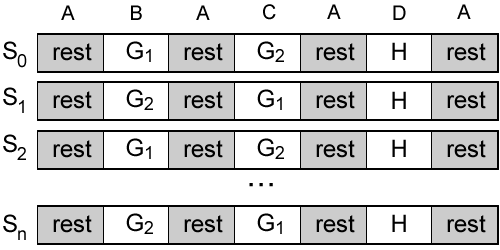
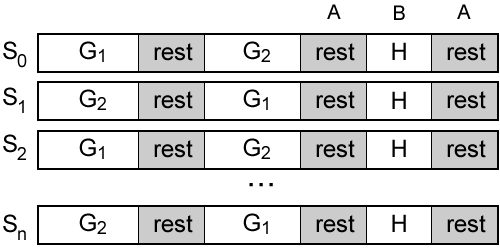
Update section regarding experiment 2

diff --git a/texts/closing.tex b/texts/closing.tex
@@ -35,7 +35,7 @@ Experiment involving emotion detection & & & & & & & & & & & & & \cellcolor{Gray
 \hline
 Development of software to validate the approach & & & & & & & & & & & & & & & & \cellcolor{Gray} & \cellcolor{Gray} & \cellcolor{Gray} & \cellcolor{Gray} & \cellcolor{Gray} & & \\
 \hline
-Thesis writing & & & & & & & & \cellcolor{Gray} & & & & \cellcolor{Gray} & & & \cellcolor{Gray} & \cellcolor{Gray} & \cellcolor{Gray} & \cellcolor{Gray} & \cellcolor{Gray} & \cellcolor{Gray} & & \\
+Thesis writing & & & & \cellcolor{Gray} & & & & \cellcolor{Gray} & & & & \cellcolor{Gray} & & & \cellcolor{Gray} & \cellcolor{Gray} & \cellcolor{Gray} & \cellcolor{Gray} & \cellcolor{Gray} & \cellcolor{Gray} & & \\
 \hline
 Disputation & & & & & & & & & & & & & & & & & & & & & & \cellcolor{Gray} \\
 \hline
@@ -135,9 +135,11 @@ Another possible solution is to provide the model with the variations of the sig
 \section{Experiment involving emotion detection}
 \label{closing:emotion-detection-experiment}
 
-An experiment involving emotion detection and games will be planned and executed to validate the proposed approach. The experiment will be similar to the first one conducted, however it will test the hypotesis that all defined components, i.e. computer vision technique, machine learning model and calibration games, work in combination to detect emotional states.
+After the previous tasks have been completed, the limitations of the remote readings will be known (and mitigated), the set of user signals to be used in the user-tailored model will be defined and a machine learning model to map user signals into emotional states will have been selected. In summary the proposed emotion detection process will be structuraly complete, but not validated. An experiment involving emotion detection and games will then be planned and executed to validate the proposed approach.
 
-The experiment design will be based on a within-subject approach \parencite{lane2015online} where all participants perform at all levels of the treatment and there are no control groups. In the context of this research, user signals, e.g. HR, facial actions and self-reported emotional state, will be measured and used in a user-tailored model, so the division of subjects into more than one group poses a comparison problem. Each individual will inevitably differ from one another regarding signals and emotions, such as variations in average HR during rest, for instance. Additionally the emotional state of users regarding boredom and stress must be measured constantly during the experiment, so the accuracy of the user-tailored model can be tested against those points where the emotional state is known. People present different perceptions regarding stress and boredem, so a division of subjects into groups also poses comparison problems.
+The experiment will be similar to the first one conducted, however it will test the hypotesis that all defined components, i.e. computer vision technique, machine learning model and calibration games, work in combination to detect emotional states. The overall idea of the experiment is to make subjects play three games (two calibration games, one off the shelf game) while being recored and monitored by a HR sensor, i.e. a watch. During the gameplay of the non-calibration, off the shelf game the emotional state of users will be constrantly measured. The experiment will produce data regarding variation of signals of subjects (from the calibration games) and ground truth data related to emotions during the gameplay of an ordinary game. The signals data will be used to train the machine learning model, which will be evaluated against the collected ground truth data. The next section contains further information regarding such validation process.
+
+The experiment design will be based on a within-subject approach \parencite{lane2015online} where all participants perform at all levels of the treatment and there are no control groups. In the context of this research, user signals, e.g. HR, facial actions and self-reported emotional state, will be measured and used in a user-tailored model, so the division of subjects into more than one group poses a problem. Each individual will inevitably differ from one another regarding signals and emotions, such as variations in average HR during rest, for instance. Additionally people present different perceptions regarding stress and boredem. Those inherent differences pose comparision problems, so a within-subject approach simplifies the analysis of data when compared to the process involving the division of subjects into different groups.
 
 \begin{figure}[ht]
     \centering
@@ -146,9 +148,9 @@ The experiment design will be based on a within-subject approach \parencite{lane
     \label{fig:time-series-design-breakwell}
 \end{figure}
 
-Since the emotional state of users must be measured constantly, a time-series experiment design will be used. In a time-series design there is a periodic measurement process on an individual and the introduction of an experimental change into this time series of measurements, which results in a discontinuity in the measurements recorded in the time series \parencite{campbell2015experimental}. Figure \ref{fig:time-series-design-breakwell} illustrates the design. The A-B-A design is a common single-case experimental design in which the measurements are conducted throughout the three parts of the experiment, i.e. A, B and A. Phase A, referred to as the baseline phase, is a period where the subject is not under the effect of the treatment, so the measurements should reflect natural occurences. Phase B, referred as the treatment phase, is the period where the treatment/intervention is applied. In the A-B-A design, the application of a treatment followed by its removal should result in changes in the measurements among the three phases, e.g. lower values during phase A and elevated values during phase B, which confirms that the variation is a result of the treatment.
+The experiment aims to validate the proposed process, so it must prove that the emotion detection process works with reasonable accuracy. As a consequence, the real emotional state of users must be known so it can be used as ground truth. In order to constantly measure the emotional state of users, a time-series experiment design will be used. In a time-series design there is a periodic measurement process on an individual and the introduction of an experimental change into this time series of measurements, which results in a discontinuity in the measurements recorded in the time series \parencite{campbell2015experimental}. Figure \ref{fig:time-series-design-breakwell} illustrates the design. The A-B-A design is a common single-case experimental design in which the measurements are conducted throughout the three parts of the experiment, i.e. A, B and A \parencite{robson2016real}. Phase A, referred to as the baseline phase, is a period where the subject is not under the effect of the treatment, so the measurements should reflect natural occurences. Phase B, referred as the treatment phase, is the period where the treatment/intervention is applied. In the A-B-A design, the application of a treatment followed by its removal should result in changes in the measurements among the three phases, e.g. lower values during phase A and elevated values during phase B, which confirms that the variation is a result of the treatment.
 
-The experiment will use a multiple treatment design which involves the implementation of two or more treatments designed to affect a single behavior \parencite{robson2016real}. It will have the form of A-B-A-C-A-D-A, where B, C and D are treatments. Figure \ref{fig:closing-experiment2-design} illustrates the design of the experiment. Treatments B and C will be calibration games, i.e. $G_i$, while treatment D will be an ordinary off the shelf game, i.e. $H$. .
+Figure \ref{fig:closing-experiment2-design} illustrates the design of the experiment. Procedures $G_1$ and $G_2$ will be calibration games, while treatment B will be an ordinary off the shelf game, i.e. $H$.
 
 \begin{figure}[ht]
     \centering
@@ -157,7 +159,7 @@ The experiment will use a multiple treatment design which involves the implement
     \label{fig:closing-experiment2-design}
 \end{figure}
 
-Two calibration games, named $G_1$ and $G_2$, will be selected as treatments. The order they will be played will be randomized among participants, so one subject will have $G_1$ for treatment B and $G_2$ for treatment C, while another subject will have $G_2$ for B and $G_1$ for C, and so on. The measurement to be conducted will be regarding the level of stress and boredom. At fixed intervals, e.g. every 60 seconds, users will be asked to report the current emotional state. The measurement mechanism will be one of the following options. A likert scale containing a question about the stress level and a question about the boredom level. The Self-Assessment Manikin (SAM) \parencite{morris1995observations}, which is an efficient cross-cultural measurement of emotional response regarding valence and arousal. Or the Affective Slider (AS) \parencite{betella2016affective}, a digital self-reporting tool composed of two slider controls for assessment of pleasure and arousal. Figure \ref{fig:sam-as} illustrates SAM and AS self-assessment mechanisms.
+The measurement regarding the level of stress and boredom of subjects will be conducted during the A-B-A phases. At fixed intervals, e.g. every 60 seconds, users will be asked to report the current emotional state. The measurement mechanism will be one of the following options (see subsection \ref{experiment2-challenges} for further discussions). A likert scale containing a question about the stress level and a question about the boredom level (approach used in experiment 1). The Self-Assessment Manikin (SAM) \parencite{morris1995observations}, which is an efficient cross-cultural measurement of emotional response regarding valence and arousal. Or the Affective Slider (AS) \parencite{betella2016affective}, a digital self-reporting tool composed of two slider controls for assessment of pleasure and arousal. Figure \ref{fig:sam-as} illustrates SAM and AS self-assessment mechanisms.
 
 \begin{figure}[h]
 \centering
@@ -177,6 +179,15 @@ Two calibration games, named $G_1$ and $G_2$, will be selected as treatments. Th
 \end{figure}
 
 Additionally to the self-assessment of the emotional state, during the whole experiment subjects will be recorded by a video camera and monitored by a HR watch. The data collected during the experiment regarding the calibration games will be used to train a machine learning model, which will be used to detect the emotional state of users during the interaction with the ordinary game. The processing will be performed offline and after the experiment. Results of that analysis will prove or refute the previously mentioned hypothesis that all defined components, i.e. computer vision technique, machine learning model and calibration games, work in combination to detect emotional states.
+
+\subsection{Challenges and unresolved issues}
+\label{experiment2-challenges}
+
+The first challenge regarding experiment 2 is how to measure emotional states without disturbing and affecting the actual measurements. Interrupting users during gameplay is not ideal, however it is the approach described in the literature by related works. Careful planning will be required to decide the frequency and the way users will report their emotional states. If the measurements are performed too often, more data points will be available for analysis, however they might not necessarily reflect the real emotional state of users, e.g. user is bored because of the questionaire, not the game being played. If the measurements are performed too sparsely, data points will more likely reflect the real emotional state of users, however fewer data points will be available for validation.
+
+Still related to emotional measurements is the decision of which questionnaire format to use in the process. As previously described, possible options are a likert scale, SAM and AS. Both SAM and AS are established and proved emotion measurement instruments, which would strengthen the theoretical foundations of the emotion measurement process. As a downside, however, they require the researcher to intruct users on how to properly answer the questionaire. User might not understand, even after the researchers explanation, what valence and arousal are, which could affect the answers and the emotion measurements. A likert scale, on the other hand, relies on the assumption that subjects know the concepts of stress and boredom within the context of games, eliminating or significantly reducing the risks of misunderstandings. If a likert scale is used, the terms ``stress" and ``boredom" can be further explained later on in the thesis using terms of arousal and valence from established emotion theories, if that is necessary. To my understanding, a likert scale has already been successfully used in experiment 1 and is more likely to produce better results than trying to use SAM or AS as measurement tools, which risks the acquisition of answers that were misunderstood by subjects.
+
+Finally another unresolved issue is the off the shelf game to be used. Differently from the calibration games, this game should produce a natural interaction with users, causing variations of emotions that are expected from an ordinary game. The challenge is to choose a game able to elicitate sufficient variations in both boredom and stress emotional states, ortherwise the ground truth data will be skewed.
 
 %When measuring HR, for instance, some subjects will have higher/lower HR mean than others, independent of the group they are in or the treatment they undergo. To counter that problem, the experiment will use a one-group posttest design \cite{kirk1982experimental}, as illustrated by Figure \ref{fig:closing-experiment2-design}. Using the first row as an example, subject $S_0$ played game $G_a$ as the first level of the treatment, followed by a post-test of that game ($PT_a$), then a rest period. In the second level of the treatment, the subject played game $G_b$, followed by a post-test of that game ($PT_b$), then another rest period. Finally in the third level of the treatment, the subject played game $G_c$ followed by a post-test of that game ($PT_c$).
 
